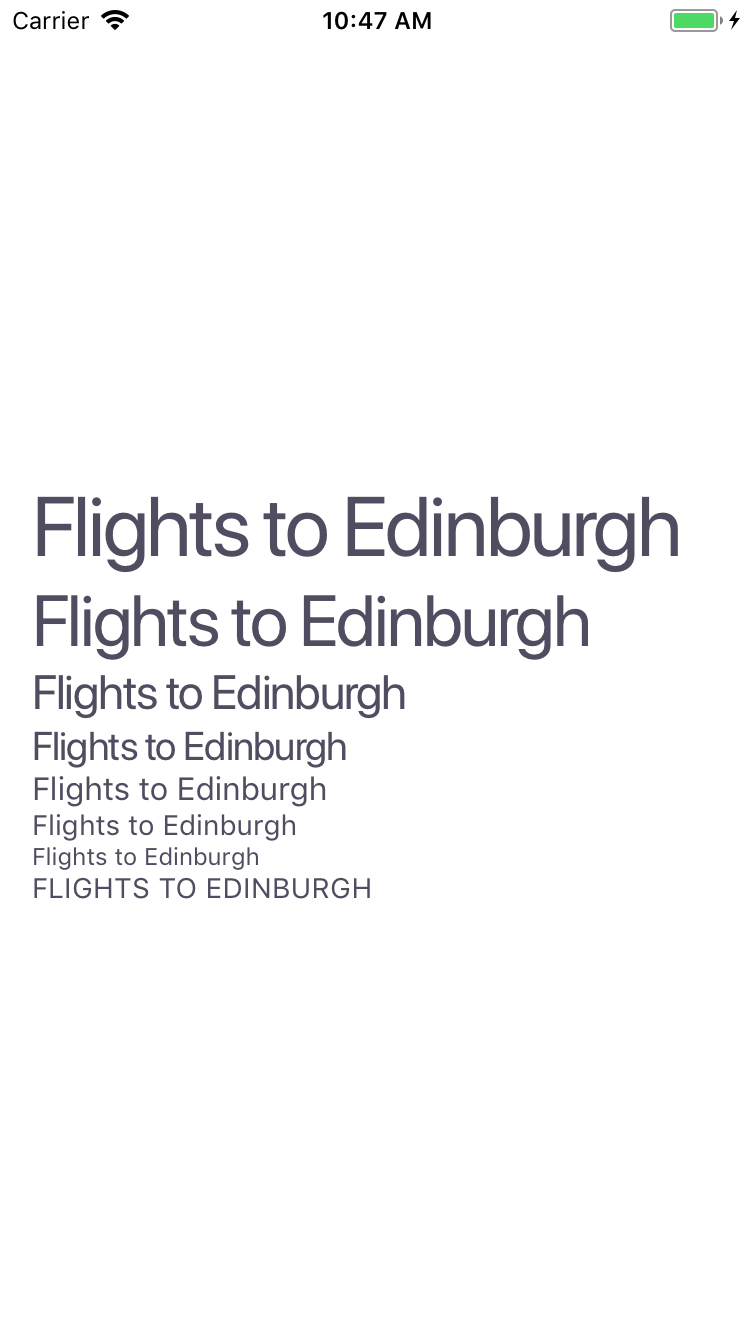
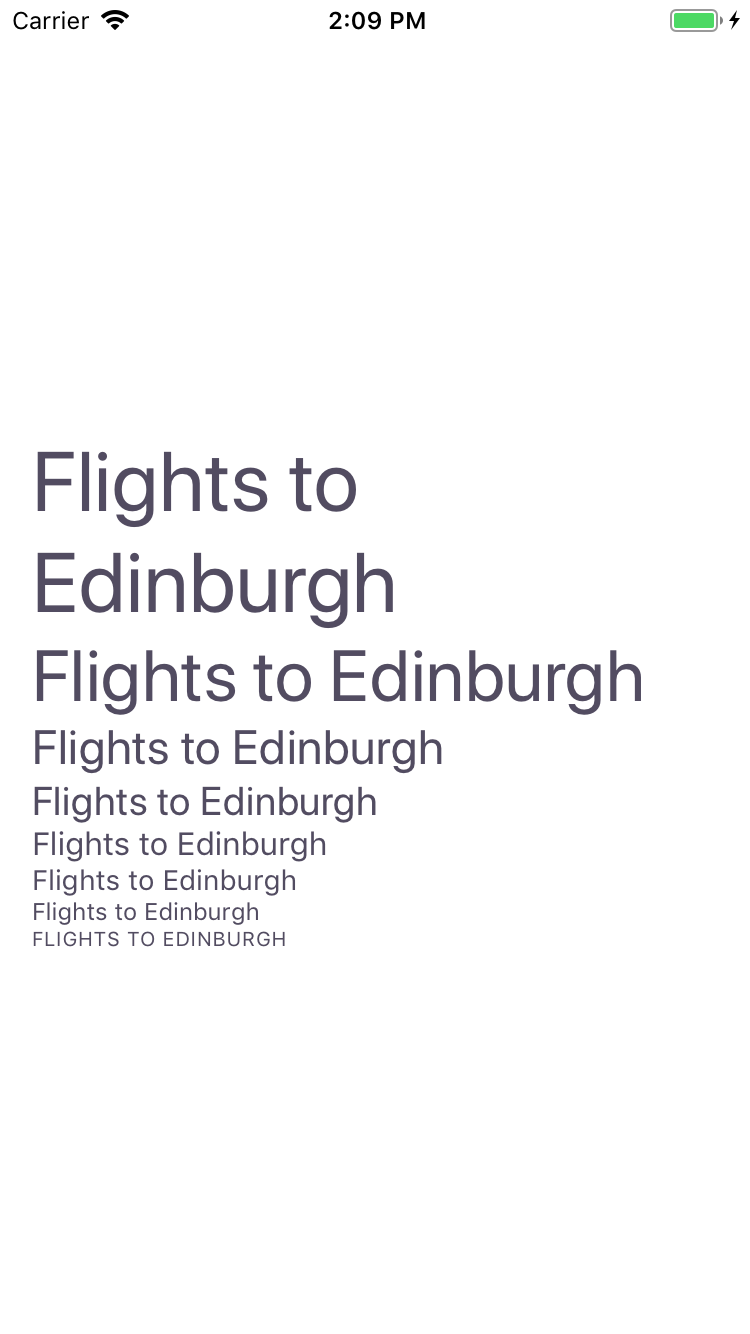
[NO-JIRA] User SF pro display tracking

Changed region(s): [[0.0307, 0.3381, 0.92, 0.7069], [0.4293, 0.0, 0.5827, 0.0307]]

diff --git a/packages/bpk-tokens/tokens/base.react.native.ios.js b/packages/bpk-tokens/tokens/base.react.native.ios.js
@@ -106,12 +106,12 @@ export const fontSizeXxl = 36;
 export const fontSizeXxxl = 42;
 export const letterSpacingBase = 0.12;
 export const letterSpacingCaps = 0.28;
-export const letterSpacingLg = -0.78;
+export const letterSpacingLg = null;
 export const letterSpacingSm = 0.154;
-export const letterSpacingXl = -0.96;
+export const letterSpacingXl = null;
 export const letterSpacingXs = 0;
-export const letterSpacingXxl = -1.396;
-export const letterSpacingXxxl = -1.6199999999999999;
+export const letterSpacingXxl = null;
+export const letterSpacingXxxl = null;
 export const lineHeightBase = 19;
 export const lineHeightLg = 24;
 export const lineHeightSm = 17;
@@ -150,7 +150,7 @@ export const textCapsLetterSpacing = 0.28;
 export const textEmphasizedFontWeight = "600";
 export const textLgFontSize = 20;
 export const textLgFontWeight = "400";
-export const textLgLetterSpacing = -0.78;
+export const textLgLetterSpacing = null;
 export const textLgLineHeight = 24;
 export const textSmFontSize = 14;
 export const textSmFontWeight = "400";
@@ -158,7 +158,7 @@ export const textSmLetterSpacing = 0.154;
 export const textSmLineHeight = 17;
 export const textXlFontSize = 24;
 export const textXlFontWeight = "400";
-export const textXlLetterSpacing = -0.96;
+export const textXlLetterSpacing = null;
 export const textXlLineHeight = 29;
 export const textXsFontSize = 12;
 export const textXsFontWeight = "400";
@@ -166,11 +166,11 @@ export const textXsLetterSpacing = 0;
 export const textXsLineHeight = 14;
 export const textXxlFontSize = 36;
 export const textXxlFontWeight = "400";
-export const textXxlLetterSpacing = -1.396;
+export const textXxlLetterSpacing = null;
 export const textXxlLineHeight = 43;
 export const textXxxlFontSize = 42;
 export const textXxxlFontWeight = "400";
-export const textXxxlLetterSpacing = -1.6199999999999999;
+export const textXxxlLetterSpacing = null;
 export const touchableOverlayColor = "rgb(37, 32, 51)";
 export const touchableOverlayOpacity = 0.15;
 export const underlayColor = "rgb(37, 32, 51)";

diff --git a/packages/bpk-tokens/tokens/ios/base.react.native.es6.js b/packages/bpk-tokens/tokens/ios/base.react.native.es6.js
@@ -106,12 +106,12 @@ export const fontSizeXxl = 36;
 export const fontSizeXxxl = 42;
 export const letterSpacingBase = 0.12;
 export const letterSpacingCaps = 0.28;
-export const letterSpacingLg = -0.78;
+export const letterSpacingLg = null;
 export const letterSpacingSm = 0.154;
-export const letterSpacingXl = -0.96;
+export const letterSpacingXl = null;
 export const letterSpacingXs = 0;
-export const letterSpacingXxl = -1.396;
-export const letterSpacingXxxl = -1.6199999999999999;
+export const letterSpacingXxl = null;
+export const letterSpacingXxxl = null;
 export const lineHeightBase = 19;
 export const lineHeightLg = 24;
 export const lineHeightSm = 17;
@@ -150,7 +150,7 @@ export const textCapsLetterSpacing = 0.28;
 export const textEmphasizedFontWeight = "600";
 export const textLgFontSize = 20;
 export const textLgFontWeight = "400";
-export const textLgLetterSpacing = -0.78;
+export const textLgLetterSpacing = null;
 export const textLgLineHeight = 24;
 export const textSmFontSize = 14;
 export const textSmFontWeight = "400";
@@ -158,7 +158,7 @@ export const textSmLetterSpacing = 0.154;
 export const textSmLineHeight = 17;
 export const textXlFontSize = 24;
 export const textXlFontWeight = "400";
-export const textXlLetterSpacing = -0.96;
+export const textXlLetterSpacing = null;
 export const textXlLineHeight = 29;
 export const textXsFontSize = 12;
 export const textXsFontWeight = "400";
@@ -166,11 +166,11 @@ export const textXsLetterSpacing = 0;
 export const textXsLineHeight = 14;
 export const textXxlFontSize = 36;
 export const textXxlFontWeight = "400";
-export const textXxlLetterSpacing = -1.396;
+export const textXxlLetterSpacing = null;
 export const textXxlLineHeight = 43;
 export const textXxxlFontSize = 42;
 export const textXxxlFontWeight = "400";
-export const textXxxlLetterSpacing = -1.6199999999999999;
+export const textXxxlLetterSpacing = null;
 export const touchableOverlayColor = "rgb(37, 32, 51)";
 export const touchableOverlayOpacity = 0.15;
 export const underlayColor = "rgb(37, 32, 51)";

diff --git a/packages/bpk-tokens/tokens/ios/base.react.native.common.js b/packages/bpk-tokens/tokens/ios/base.react.native.common.js
@@ -108,12 +108,12 @@ module.exports = {
   fontSizeXxxl: 42,
   letterSpacingBase: 0.12,
   letterSpacingCaps: 0.28,
-  letterSpacingLg: -0.78,
+  letterSpacingLg: null,
   letterSpacingSm: 0.154,
-  letterSpacingXl: -0.96,
+  letterSpacingXl: null,
   letterSpacingXs: 0,
-  letterSpacingXxl: -1.396,
-  letterSpacingXxxl: -1.6199999999999999,
+  letterSpacingXxl: null,
+  letterSpacingXxxl: null,
   lineHeightBase: 19,
   lineHeightLg: 24,
   lineHeightSm: 17,
@@ -152,7 +152,7 @@ module.exports = {
   textEmphasizedFontWeight: "600",
   textLgFontSize: 20,
   textLgFontWeight: "400",
-  textLgLetterSpacing: -0.78,
+  textLgLetterSpacing: null,
   textLgLineHeight: 24,
   textSmFontSize: 14,
   textSmFontWeight: "400",
@@ -160,7 +160,7 @@ module.exports = {
   textSmLineHeight: 17,
   textXlFontSize: 24,
   textXlFontWeight: "400",
-  textXlLetterSpacing: -0.96,
+  textXlLetterSpacing: null,
   textXlLineHeight: 29,
   textXsFontSize: 12,
   textXsFontWeight: "400",
@@ -168,11 +168,11 @@ module.exports = {
   textXsLineHeight: 14,
   textXxlFontSize: 36,
   textXxlFontWeight: "400",
-  textXxlLetterSpacing: -1.396,
+  textXxlLetterSpacing: null,
   textXxlLineHeight: 43,
   textXxxlFontSize: 42,
   textXxxlFontWeight: "400",
-  textXxxlLetterSpacing: -1.6199999999999999,
+  textXxxlLetterSpacing: null,
   touchableOverlayColor: "rgb(37, 32, 51)",
   touchableOverlayOpacity: 0.15,
   underlayColor: "rgb(37, 32, 51)",

diff --git a/packages/bpk-tokens/formatters/adjust-typography.js b/packages/bpk-tokens/formatters/adjust-typography.js
@@ -97,7 +97,9 @@ const adjustTypographyAndroid = prop => {
 
 const adjustTypographyIos = prop => {
   let adjustedValue = prop.value;
-  if (prop.type === 'letter-spacing') {
+  if (prop.value === 'null') {
+    adjustedValue = null;
+  } else if (prop.type === 'letter-spacing') {
     const correspondingFontSize = getCorrespondingFontSizeTokensIos(prop.name);
     if (correspondingFontSize === undefined) {
       throw new Error(
